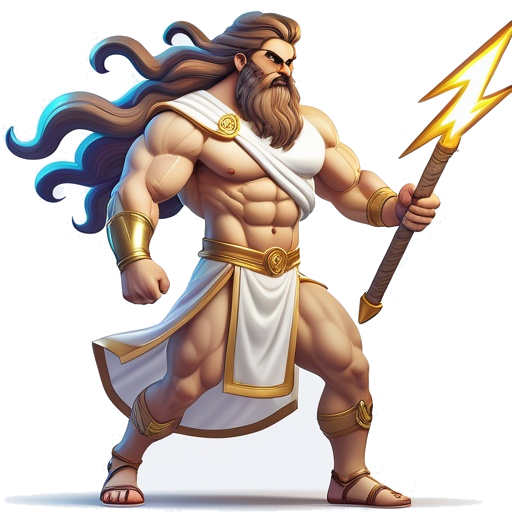
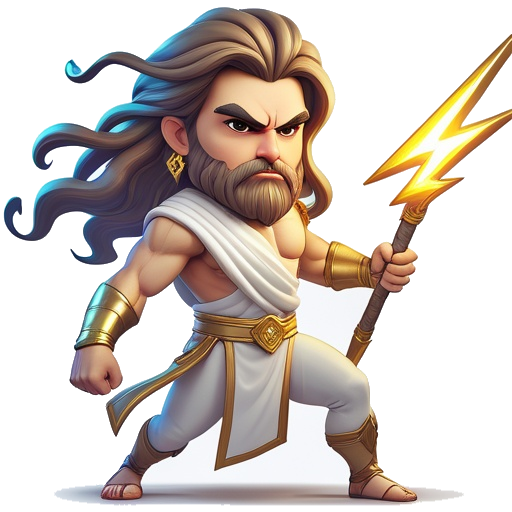
circle-heroes: 제우스 공격 포즈 재생성 (정체성 드리프트 수정 + 스윙 액션)
zeus_light_001-attack.png가 치비 비율을 잃고 실사풍으로 드리프트했던 걸
--strength High + 특징 명시적 재서술로 수정. 1차 결과가 정지 포즈와 거의
같아 보여 포즈 문구를 다시 역동적인 스윙 액션으로 되돌려 재생성, 3번째
후보로 확정. "strength는 정체성 고정용, 포즈 역동성은 별도 문구로" 교훈을
71종 공용 템플릿에도 반영.

diff --git a/circle-heroes/PROMPTS.md b/circle-heroes/PROMPTS.md
@@ -1,35 +1,50 @@
-## 제우스 공격 포즈 재생성 프롬프트 (2026-08-01 백로그)
+## 제우스 공격 포즈 재생성 완료 (2026-08-01, 검수 통과·반영)
 
 지난번 UR+SSR 26종 제작 때 남겨둔 교훈("--strength Mid는 같은 캐릭터 레퍼런스 방식에서
 정체성 드리프트가 잦음 → High + 특징 명시적 재서술이 안정적", 아래 "71종 공용 템플릿"
 바로 위 섹션 참고)이 정작 그 71종 공용 템플릿 자체엔 반영이 안 돼 있었다 — 템플릿은
 포즈 문구만 클래스별로 갈아끼우는 구조라 `--strength` 값이나 특징 재서술 지시가 없었고,
 그 결과 제우스가 특히 심하게 드리프트함(치비 2.5등신 기준 이미지인데 공격 포즈는 실사에
-가까운 성인 근육질 비율로 통째로 바뀜 — `assets/characters/zeus_light_001.png` vs
-`zeus_light_001-attack.png` 비교로 확인).
+가까운 성인 근육질 비율로 통째로 바뀜).
 
-**대응**: `--ref zeus_light_001.png --strength High`로 고정하고, 제우스의 특징(웨이브
-장발+파란 브릿지, 각진 수염, 청동 건틀릿, 흰 토가+금띠, 번개창)을 프롬프트에 못 바꾸게
-명시적으로 재서술. 포즈 변화폭도 "격하게 휘두르기"보다 "무기를 앞으로 내미는" 쪽으로
-줄여서 정체성 유지에 무게를 실음(포즈가 격할수록 레퍼런스 이탈 폭도 커지는 경향 확인).
+**1차 시도**: `--ref zeus_light_001.png --strength High` + 특징 명시적 재서술 + "무기를
+앞으로 내미는" 절제된 포즈로 재생성 → 정체성은 확실히 잡혔지만, 원본도 이미 창을 비스듬히
+든 자세라 결과물이 "거의 같은 그림"처럼 보인다는 피드백. 이 김에 Leonardo API에 strengthType
+유효값을 직접 질의해 `Low/Mid/High/Ultra/Max` 5단계가 있는 걸 확인하고 Ultra로도 뽑아
+비교했으나, High와 Ultra는 육안상 큰 차이가 없었음(오히려 강도를 더 높일수록 포즈 변화폭이
+줄어드는 부작용만 있는 것으로 보임 — 강도는 "정체성 고정"에 쓰고 "포즈를 확실히 바꾸는 힘"은
+따로 프롬프트 문구로 줘야 한다는 교훈).
+
+**2차 시도(채택)**: strength는 그대로 High로 유지하고, 포즈 문구만 "대각선으로 크게 휘두르는
+스윙 동작, 한쪽 다리를 앞으로 내딛는 액션 포즈"로 되돌려 강하게 재서술 — 이번엔 확실히
+역동적인 자세가 나오면서도 정체성은 유지됨. 3장 중 3번째 후보로 확정.
 
 ```
 Same character as the attached reference image, matching exact face, costume,
 colors, and proportions — chibi-heroic 2.5-head proportions (NOT a realistic
 adult body), wavy long brown hair with a blue streak, angular pointed beard,
 bronze gauntlets on both wrists, white toga draped over one shoulder with a
-gold sash/belt, holding a glowing golden lightning-bolt spear.
-Change ONLY the pose: thrusting the lightning spear forward toward the viewer,
-weight shifted forward, determined expression. Same bold dark outlines, same
-glossy cel shading, same lighting direction as the reference.
+gold sash/belt, holding a glowing golden lightning-bolt spear. Change ONLY
+the pose: a dynamic mid-swing attack, sweeping the lightning spear across the
+body in a wide arc as if striking, front foot stepping forward, dramatic
+action lines, aggressive fierce expression, clearly different silhouette
+from a standing idle pose. Same bold dark outlines, same glossy cel shading,
+same lighting direction as the reference.
 Full body, single character only, facing right (3/4 view), feet at bottom
 center, small margin. Transparent background (alpha PNG). No text, no
 watermark, no frame. Square 1:1. 512×512.
 ```
 
-이 교훈(High 고정 + 특징 명시적 재서술 + 포즈 변화폭 축소)은 남은 SR/R/N 40여 종
-공격 포즈를 나중에 진행할 때도 공용 템플릿에 반영해야 함(§아래 "71종 공용 템플릿" 절
-업데이트 필요 — 이번에 같이 반영).
+`assets/characters/zeus_light_001-attack.png` 교체 커밋 완료 — 기존 정지 초상화 폴백
+구조라 코드 수정 없이 자동 반영. 아쉬운 점: 하체가 원본(맨다리+흰 스커트)과 달리 흰
+바지처럼 나온 사소한 드리프트가 있었으나, 정체성 핵심 요소(헤어/수염/건틀릿/토가 상의/
+번개창)는 잘 유지돼 있어 승인됨 — 다음에 다시 만들 일이 있으면 "bare legs, not covered
+by trousers"처럼 하체도 명시적으로 못박을 것.
+
+이 교훈(strength는 정체성 고정용 High 고정 + 특징 명시적 재서술, 포즈는 강도와 별개로
+프롬프트 문구 자체를 확실히 역동적으로 쓸 것)은 남은 SR/R/N 40여 종 공격 포즈를 나중에
+진행할 때도 공용 템플릿에 반영해야 함(§아래 "71종 공용 템플릿" 절 업데이트 필요 — 이번에
+같이 반영).
 
 ## 2026-07-31: 소환권 아이콘 2차 재제작 — "말려있는 두루마리+리본" 형태로 통일
 
@@ -1994,15 +2009,19 @@ Transparent background (alpha PNG). No text, no watermark. Square 1:1.
 
 > **2026-08-01 개정**: UR+SSR 26종 제작 때 얻은 교훈(--strength Mid는 정체성 드리프트가
 > 잦음)이 이 템플릿엔 반영이 안 돼 있어서 제우스가 치비 비율을 완전히 잃고 실사풍 성인
-> 체형으로 나오는 사고가 있었음(§"제우스 공격 포즈 재생성 프롬프트" 절 참고). 아래처럼
-> **① `--strength High` 고정 ② 해당 영웅의 핵심 시각 특징을 프롬프트에 문장으로 재서술
-> ③ 포즈 변화폭을 "격하게 휘두르기"보다 약간 절제된 동작으로** 3가지를 반드시 지킬 것 —
-> 포즈가 격할수록 레퍼런스 이탈 폭도 커지는 경향이 확인됐다.
+> 체형으로 나오는 사고가 있었음(§"제우스 공격 포즈 재생성" 절 참고). 1차 수정으로
+> **① `--strength High` 고정 ② 특징 명시적 재서술** 까지는 맞았지만, 그 김에 "③ 포즈
+> 변화폭을 절제된 동작으로 축소"까지 했더니 이번엔 정지 포즈와 거의 구분이 안 될 만큼
+> 밋밋해졌다는 피드백을 받음 — **strength High는 그대로 유지하되(정체성 고정 담당),
+> 포즈 문구는 절제하지 말고 원래대로 확실히 역동적으로 쓸 것**(강도와 포즈 역동성은
+> 서로 다른 축이라 하나를 낮춘다고 다른 하나가 좋아지지 않음, 오히려 `Ultra`/`Max`
+> 처럼 강도를 더 올릴수록 포즈 변화폭만 같이 줄어드는 부작용이 확인됨 — 강도는 High
+> 이상 올릴 필요 없음).
 
 **사용법**: 영웅 하나마다 `assets/characters/<영웅id>.png`(기존 정지 초상화)를 이미지
 레퍼런스로 `--strength High`와 함께 첨부 → 아래 템플릿의 `[핵심 특징 재서술]`에 그 영웅의
 헤어/무기/의상 등 놓치면 안 되는 특징을 2~4개 문장으로 직접 채워넣고, `[포즈 문구]`는
-클래스(딜러/탱커/서포터)에 맞는 것을 절제된 버전으로 골라 끼워넣기 → 생성. 저장 파일명:
+클래스(딜러/탱커/서포터)에 맞는 것을 역동적인 버전 그대로 끼워넣기 → 생성. 저장 파일명:
 `assets/characters/<영웅id>-attack.png` (기존 정지 초상화와 같은 폴더). 순서 상관없이
 하나씩 도착하는 대로 자동 적용됨(코드 배선 완료).
 
@@ -2018,8 +2037,9 @@ center, small margin. Transparent background (alpha PNG). No text, no
 watermark, no frame. Square 1:1. 512×512.
 ```
 
-클래스별 `[포즈 문구]` (절제된 버전 — 격한 동작일수록 드리프트 위험이 커서 톤 다운):
-- **딜러**: `thrusting the weapon forward toward the viewer, sharp forward lean, determined expression`
+클래스별 `[포즈 문구]` (역동적으로 — 절제하지 말 것, "clearly different silhouette
+from a standing idle pose" 같은 문구를 덧붙이면 도움 됨):
+- **딜러**: `a dynamic mid-swing attack, sweeping the weapon across the body in a wide arc as if striking, front foot stepping forward, dramatic action lines, aggressive fierce expression`
 - **탱커**: `bracing forward with shield raised, weight low and grounded, defiant expression`
 - **서포터**: `casting a spell/skill, one arm raised with a small glow effect at the hand, focused expression`
 
